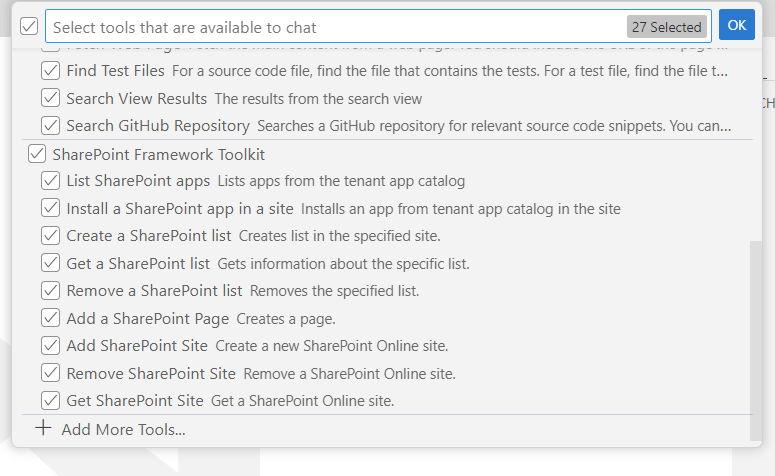
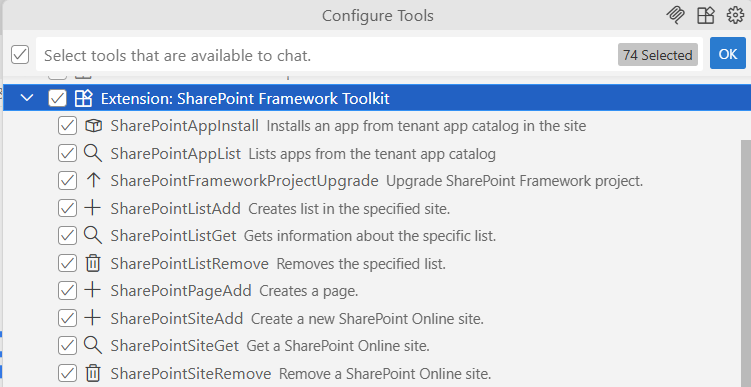
Prepares release

Changed region(s): [[0.0, 0.0, 1.0, 1.0], [0.98, 0.3411, 1.0, 1.0]]

diff --git a/CHANGELOG.md b/CHANGELOG.md
@@ -1,13 +1,32 @@
 # Change Log
 
+## [4.12.0] - 2025-10-07
+
+- Compressed images in extension and docs
+- Updated Adaptive Card Designer link to new Microsoft URL
+- Fixed broken image links for proper rendering
+- Fixed app catalog view not to show deleted sites
+- Added copy/move app actions
+- Added CLI for Microsoft 365 package clean up
+- Updated spo_page_add Language Model Tool
+- Added try catch safe guards in sample gallery
+
+## [4.11.0] - 2025-10-07 
+
+- Technical Release to address VS Code Marketplace issue
+
+## [4.10.0] - 2025-10-04
+
+- Technical Release to address VS Code Marketplace issue
+
 ## [4.9.0] - 2025-08-14
 
-- Adds product integration tests
-- Adds LM Tool to perform SPFx project upgrade by GitHub Copilot agent mode
-- Adds management capabilities to tenant-wide extension: Enable/Disable, Remove, Update
-- Updates welcome experience, allowing users to always use the extension management capabilities
-- Adds new extension settings that allow specifying the shell type for SPFx project upgrade action
-- Removes/Deprecates code chat participant command
+- Added product integration tests
+- Added LM Tool to perform SPFx project upgrade by GitHub Copilot agent mode
+- Added management capabilities to tenant-wide extension: Enable/Disable, Remove, Update
+- Updated welcome experience, allowing users to always use the extension management capabilities
+- Added new extension settings that allow specifying the shell type for SPFx project upgrade action
+- Removed/Deprecated code chat participant command
 
 ## [4.8.0] - 2025-06-07
 

diff --git a/README.md b/README.md
@@ -353,6 +353,21 @@ In order to use the tool you may #hashtag mention it, otherwise if your prompt w
 
 ![Language Model Tools in Action](./assets/images/language-model-tools-in-action.png)
 
+The extension provides the following tools
+
+| Tool                              | Description                                               |
+|-----------------------------------|-----------------------------------------------------------|
+| SharePointAppInstall              | Installs an app from tenant app catalog in the site       |
+| SharePointAppList                 | Lists apps from the tenant app catalog                    |
+| SharePointFrameworkProjectUpgrade | Upgrade SharePoint Framework project                      |
+| SharePointListAdd                 | Creates list in the specified site                        |
+| SharePointListGet                 | Gets information about the specific list                  |
+| SharePointListRemove              | Removes the specified list                                |
+| SharePointPageAdd                 | Creates a page                                            |
+| SharePointSiteAdd                 | Create a new SharePoint Online site                       |
+| SharePointSiteGet                 | Gets information about the specific site                  |
+| SharePointSiteRemove              | Remove a SharePoint Online site                           |
+
 [Check out our docs for more details](https://pnp.github.io/vscode-viva/features/github-copilot-capabilities)
 
 ## ⚙ Architecture
